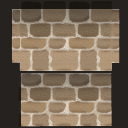
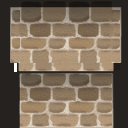
Inserted new AO textures into the game.

Changed region(s): [[0.0625, 0.0312, 0.9688, 1.0]]

diff --git a/Kandidat33MobileGame/src/spatial/hazard/AbstractWizard.java b/Kandidat33MobileGame/src/spatial/hazard/AbstractWizard.java
@@ -38,18 +38,17 @@ public abstract class AbstractWizard extends PlayerInteractor {
     @Override
     protected Spatial createModel(AssetManager assetManager) {
         
-        Node model;
-        if (EffectSettings.ambientOcclusion == AmbientOcclusion.TEXTURE) {
-            model = (Node) assetManager.loadModel("Models/wizard/AO/wizard-with-ao.j3o");
-        } else {
-            //modelForWizard = (Node) assetManager.loadModel("Models/wizard/Wizard-NoAnim-YellowbordersHair003-nolightcam.j3o"); // Nina's
-            //modelForWizard = (Node) assetManager.loadModel("Models/wizard/Wizard-NoAnim-YellowbordersHair004MergeGreen.j3o");
-            //modelForWizard = (Node) assetManager.loadModel("Models/wizard/wizard3/untitled21.j3o");
-            model = (Node) assetManager.loadModel("Models/wizard/wizard3/new/untitled21b-textures.j3o");
-        }
+        Node model = (Node) assetManager.loadModel("Models/wizard/wizard3/new/untitled21b-textures.j3o");
+        //modelForWizard = (Node) assetManager.loadModel("Models/wizard/Wizard-NoAnim-YellowbordersHair003-nolightcam.j3o"); // Nina's
+        //modelForWizard = (Node) assetManager.loadModel("Models/wizard/Wizard-NoAnim-YellowbordersHair004MergeGreen.j3o");
+        //modelForWizard = (Node) assetManager.loadModel("Models/wizard/wizard3/untitled21.j3o");
+        
         model.scale(1.5f);
         model.rotate(0, FastMath.DEG_TO_RAD * 180, 0);
-
+        
+        if (EffectSettings.ambientOcclusion == AmbientOcclusion.TEXTURE) {
+            this.addAOTextures(model, assetManager);
+        }
 
         //model.rotate(0,3.1f,0);
         model.setName("wizardSpatial");
@@ -66,8 +65,9 @@ public abstract class AbstractWizard extends PlayerInteractor {
         Geometry wall = new Geometry("wallOcclusion", wallAO);
         wall.setLocalTranslation(localTranslation);
         Material wallMaterial = new Material(assetManager, "Common/MatDefs/Misc/Unshaded.j3md");
-        wallMaterial.setTexture("ColorMap", assetManager.loadTexture("Models/wizard/AO/wall-ao-transparent-small.png"));
+        wallMaterial.setTexture("ColorMap", assetManager.loadTexture("Models/ghost/AO/wall-ao-small.png"));
         wallMaterial.getAdditionalRenderState().setBlendMode(RenderState.BlendMode.Alpha); // activate transparency
+        wallMaterial.getAdditionalRenderState().setDepthWrite(false);
         wall.setMaterial(wallMaterial);
         return wall;
     }
@@ -93,16 +93,25 @@ public abstract class AbstractWizard extends PlayerInteractor {
     
     protected void redress(AssetManager a, ColorRGBA cloth, ColorRGBA particle) { //Changes wizard to black clothes and red particle
         if (cloth != null) {
-        Material mat = new Material(a, "Common/MatDefs/Light/Lighting.j3md");
-        mat.setBoolean("UseMaterialColors",true);
-        //saknas något här för att materialet ska reflektera ljus på bra sätt. det blir"torrt"
-        mat.setColor("Diffuse", cloth);
-        this.getChild("Cone.0002").setMaterial(mat);
-        this.getChild("Cone.0012").setMaterial(mat);
-        this.getChild("Cone.0021").setMaterial(mat);
+            //saknas något här för att materialet ska reflektera ljus på bra sätt. det blir"torrt"
+            ((Geometry)this.getChild("Cone.0002")).getMaterial().setColor("Diffuse", cloth);
+            ((Geometry)this.getChild("Cone.0012")).getMaterial().setColor("Diffuse", cloth);
+            ((Geometry)this.getChild("Cone.0021")).getMaterial().setColor("Diffuse", cloth);
         }
         if (particle != null) {
-        ((ParticleEmitter)this.getChild("spark")).setStartColor(particle);
+            ((ParticleEmitter)this.getChild("spark")).setStartColor(particle);
         }
+    }
+
+    private void addAOTextures(Node model, AssetManager assetManager) {
+        ((Geometry)((Node)model.getChild("Cone.000")).getChild("Cone.0001")).getMaterial().setTexture("AOMap", assetManager.loadTexture("Models/wizard/wizard3/new/AO/hat-ao-small.png"));
+        ((Geometry)((Node)model.getChild("Cone.000")).getChild("Cone.0002")).getMaterial().setTexture("AOMap", assetManager.loadTexture("Models/wizard/wizard3/new/AO/hat-ao-small.png"));
+        ((Geometry)((Node)model.getChild("Cone.001")).getChild("Cone.0011")).getMaterial().setTexture("AOMap", assetManager.loadTexture("Models/wizard/wizard3/new/AO/dress-ao-small.png"));
+        ((Geometry)((Node)model.getChild("Cone.001")).getChild("Cone.0012")).getMaterial().setTexture("AOMap", assetManager.loadTexture("Models/wizard/wizard3/new/AO/dress-ao-small.png"));
+        ((Geometry)((Node)model.getChild("Cone.002")).getChild("Cone.0021")).getMaterial().setTexture("AOMap", assetManager.loadTexture("Models/wizard/wizard3/new/AO/arm-ao-small.png"));
+        ((Geometry)((Node)model.getChild("Cone.001")).getChild("Cone.0012")).getMaterial().setTexture("AOMap", assetManager.loadTexture("Models/wizard/wizard3/new/AO/dress-ao-small.png"));
+        ((Geometry)((Node)model.getChild("Cylinder.001")).getChild("Cylinder.0011")).getMaterial().setTexture("DiffuseMap", assetManager.loadTexture("Models/wizard/wizard3/new/AO/hair-ao-small.png"));
+        ((Geometry)((Node)model.getChild("Plane.004")).getChild("Plane.0061")).getMaterial().setTexture("DiffuseMap", assetManager.loadTexture("Models/wizard/wizard3/new/AO/beard-ao-small.png"));
+        ((Geometry)((Node)model.getChild("Sphere")).getChild("Sphere1")).getMaterial().setTexture("DiffuseMap", assetManager.loadTexture("Models/wizard/wizard3/new/AO/head-ao-small.png"));
     }
 }

diff --git a/Kandidat33MobileGame/src/spatial/Player.java b/Kandidat33MobileGame/src/spatial/Player.java
@@ -75,9 +75,19 @@ public class Player extends Node implements AnimEventListener {
         playerControl = new PlayerControl(1f, 4f+hoverHeight);
         playerControl.setSpeedFactor(P.speedFactor);
         this.addControl(playerControl);
+        
+        playerModel = (Node) assetManager.loadModel("Models/ghost/ghost04-014cloth003armature003UV002.j3o");
+        playerModel.rotate(0, -2.07f, 0);
+        playerModel.scale(1f);
+        playerModel.setLocalTranslation(0f,2.8f+hoverHeight,0f); 
+        control = playerModel.getChild("Sphere").getControl(AnimControl.class);
+        channel = control.createChannel();
+        channel.setAnim("ArmatureAction.000");
 
+        /*
         //Sets the model of the player
         if (EffectSettings.ambientOcclusion == AmbientOcclusion.TEXTURE) {
+            
             playerModel = (Node) assetManager.loadModel("Models/ghost/AO/ghost-with-ao.j3o");
             playerModel.setLocalTranslation(0f,1.8f+hoverHeight,0f); 
             control = playerModel.getChild("Plane").getControl(AnimControl.class);
@@ -89,17 +99,14 @@ public class Player extends Node implements AnimEventListener {
             this.attachChild(floorOcclusion);
         } else {
             
-            playerModel = (Node) assetManager.loadModel("Models/ghost/ghost04-014cloth003armature003UV002.j3o");
-            playerModel.rotate(0, -2.07f, 0);
-            playerModel.scale(1f);
-            playerModel.setLocalTranslation(0f,2.8f+hoverHeight,0f); 
-            control = playerModel.getChild("Sphere").getControl(AnimControl.class);
-            channel = control.createChannel();
-            channel.setAnim("ArmatureAction.000");
-            // Nina's
-            /*playerModel = (Node) assetManager.loadModel("Models/ghost/ghost2-moreanim-nolightcam.j3o");
-            playerModel.setLocalTranslation(0f,1.8f+hoverHeight,0f); 
-            control = playerModel.getChild("Plane").getControl(AnimControl.class);*/
+            
+        }
+        * */
+        
+        if (EffectSettings.ambientOcclusion == AmbientOcclusion.TEXTURE) {
+            ((Geometry)((Node)playerModel.getChild("Sphere")).getChild("Sphere1")).getMaterial().setTexture("DiffuseMap", assetManager.loadTexture("Models/ghost/AO/ghost-ao-small.png"));
+            this.attachChild(this.addWallOcclusion(assetManager, hoverHeight));
+            this.attachChild(this.addFloorOcclusion(assetManager, hoverHeight));
         }
         
         ParticleEmitter dust = this.getDustParticleEmitter(assetManager);
@@ -186,24 +193,26 @@ public class Player extends Node implements AnimEventListener {
 
 
     private Geometry addWallOcclusion(AssetManager assetManager, float hoverHeight) {
-        Quad wallAO = new Quad(13, 13);
+        Quad wallAO = new Quad(8*9/9, 8*12/9);
         Geometry wall = new Geometry("wallOcclusion", wallAO);
         wall.setLocalTranslation(-wallAO.getWidth()/2, -wallAO.getHeight()/2+hoverHeight, -P.platformWidth/2-P.playerZOffset+0.2f);
         Material wallMaterial = new Material(assetManager, "Common/MatDefs/Misc/Unshaded.j3md");
-        wallMaterial.setTexture("ColorMap", assetManager.loadTexture("Models/ghost/AO/wall-ao-transparent.png"));
+        wallMaterial.setTexture("ColorMap", assetManager.loadTexture("Models/ghost/AO/wall-ao-small.png"));
         wallMaterial.getAdditionalRenderState().setBlendMode(BlendMode.Alpha); // activate transparency
+        wallMaterial.getAdditionalRenderState().setDepthWrite(false);
         wall.setMaterial(wallMaterial);
         wall.setQueueBucket(Bucket.Transparent);
         return wall;
     }
     
     private Geometry addFloorOcclusion(AssetManager assetManager, float hoverHeight) {
-        Box floorAO = new Box(6.5f, 0f, 6.5f);
+        Box floorAO = new Box(4.2f/3, 0f, 6.5f/3);
         Geometry floor = new Geometry("floorOcclusion", floorAO);
-        floor.setLocalTranslation(0f, 0.25f, 0f);
+        floor.setLocalTranslation(0f, 0.35f, 0f);
         Material floorMaterial = new Material(assetManager, "Common/MatDefs/Misc/Unshaded.j3md");
-        floorMaterial.setTexture("ColorMap", assetManager.loadTexture("Models/ghost/AO/floor-ao-transparent.png"));
+        floorMaterial.setTexture("ColorMap", assetManager.loadTexture("Models/ghost/AO/floor-ao-small.png"));
         floorMaterial.getAdditionalRenderState().setBlendMode(BlendMode.Alpha); // activate transparency
+        floorMaterial.getAdditionalRenderState().setDepthWrite(false);
         floor.setMaterial(floorMaterial);
         floor.setQueueBucket(Bucket.Transparent);
         return floor;

diff --git a/Kandidat33MobileGame/src/spatial/Plant.java b/Kandidat33MobileGame/src/spatial/Plant.java
@@ -7,13 +7,20 @@ import com.jme3.animation.LoopMode;
 import com.jme3.asset.AssetManager;
 import com.jme3.bullet.collision.shapes.CollisionShape;
 import com.jme3.bullet.collision.shapes.CylinderCollisionShape;
+import com.jme3.material.Material;
+import com.jme3.material.RenderState;
 import com.jme3.math.Vector3f;
+import com.jme3.renderer.queue.RenderQueue;
+import com.jme3.scene.Geometry;
 import com.jme3.scene.Node;
 import com.jme3.scene.Spatial;
+import com.jme3.scene.shape.Box;
 import com.sun.org.apache.bcel.internal.generic.L2D;
 import control.AbstractPlayerInteractorControl;
 import control.PlayerControl;
 import control.PlayerInteractorControl;
+import material.LightTextureMaterial;
+import variables.EffectSettings;
 
 /**
  * A class for a non-physical torch, purely for decoration.
@@ -26,16 +33,19 @@ public class Plant extends PlayerInteractor implements AnimEventListener {
     private static final CollisionShape collisionShape =
             new CylinderCollisionShape(new Vector3f(1,10,1),1);
     private static final float modelHeight = 10;
+
     
     public enum Type {
-        LEAVES ("Models/plant/plant-new.j3o", 6f),
-        FLOWERS ("Models/plant/plant-new-2.j3o", 3.5f);
+        LEAVES ("Models/plant/plant-new.j3o", "Models/plant/AO/planta-ao-small.png", 6f),
+        FLOWERS ("Models/plant/plant-new-2.j3o", "Models/plant/AO/planta2-ao-small.png", 3.5f);
 
         public final String modelSrc;
+        public final String AOsrc;
         public final float scale;
 
-        Type(String modelSrc, float scale) {
+        Type(String modelSrc, String AOsrc, float scale) {
             this.modelSrc = modelSrc;
+            this.AOsrc = AOsrc;
             this.scale = scale;
         }
     }
@@ -53,10 +63,16 @@ public class Plant extends PlayerInteractor implements AnimEventListener {
         model.setName("model");
         
         control = model.getChild("Plane").getControl(AnimControl.class);
+        ((Geometry)((Node)model.getChild("Plane")).getChild("Plane1")).getMaterial().getAdditionalRenderState().setDepthWrite(false);
         channel = control.createChannel(); 
         control.addListener(this);
         
         channel.setLoopMode(LoopMode.DontLoop);
+        
+        if(EffectSettings.ambientOcclusion == EffectSettings.AmbientOcclusion.TEXTURE || EffectSettings.ambientOcclusion == EffectSettings.AmbientOcclusion.INTERVAL_POST_PROCESSING) {
+            this.addAOTexture(model, assetManager, type);
+            this.attachChild(this.addWallOcclusion(assetManager, type));
+        }
         
         this.attachChild(model);
         model.move(0,modelHeight/2,-2.5f);
@@ -109,6 +125,32 @@ public class Plant extends PlayerInteractor implements AnimEventListener {
 
     public void onAnimChange(AnimControl control, AnimChannel channel, String animName) {
        // throw new UnsupportedOperationException("Not supported yet.");
+    }
+    
+    private void addAOTexture(Node model, AssetManager assetManager, Type type) {
+        ((Geometry)((Node)model.getChild("Sphere")).getChild("Sphere2")).getMaterial().setTexture("AOMap", assetManager.loadTexture(type.AOsrc));
+    }
+
+    private Geometry addWallOcclusion(AssetManager assetManager, Type type) {
+        Box wallAO = null;
+        if (type == Type.LEAVES) {
+            wallAO = new Box(3.6f, 3.6f, 0f);
+        } else {
+            wallAO = new Box(3.2f, 3.2f, 0f);
+        }
+        Geometry wall = new Geometry("wallOcclusion", wallAO);
+        if (type == Type.LEAVES) {
+            wall.setLocalTranslation(-0.3f, 17, -6.9f);
+        } else {
+            wall.setLocalTranslation(0f, 12, -6.9f);
+        }
+        Material wallMaterial = new Material(assetManager, "Common/MatDefs/Misc/Unshaded.j3md");
+        wallMaterial.setTexture("ColorMap", assetManager.loadTexture("Models/plant/AO/wall-ao-small.png"));
+        wallMaterial.getAdditionalRenderState().setBlendMode(RenderState.BlendMode.Alpha); // activate transparency
+        wallMaterial.getAdditionalRenderState().setDepthWrite(false);
+        wall.setMaterial(wallMaterial);
+        wall.setQueueBucket(RenderQueue.Bucket.Transparent);
+        return wall;
     }
     
    

diff --git a/Kandidat33MobileGame/src/spatial/Platform.java b/Kandidat33MobileGame/src/spatial/Platform.java
@@ -8,6 +8,7 @@ import com.jme3.material.RenderState;
 import com.jme3.math.FastMath;
 import com.jme3.math.Vector2f;
 import com.jme3.math.Vector3f;
+import com.jme3.renderer.queue.RenderQueue;
 import com.jme3.renderer.queue.RenderQueue.ShadowMode;
 import com.jme3.scene.Geometry;
 import com.jme3.scene.Node;
@@ -57,6 +58,10 @@ public class Platform extends Node {
         
         float length = type.length;
         Node platform = (Node)assetManager.loadModel("Models/platform/untitled8-new.j3o");
+        platform.rotate(180*FastMath.DEG_TO_RAD, 0, 0);
+        if (EffectSettings.ambientOcclusion == AmbientOcclusion.TEXTURE || EffectSettings.ambientOcclusion == AmbientOcclusion.INTERVAL_POST_PROCESSING) {
+            ((Geometry)((Node)platform.getChild("Cube")).getChild("Cube1")).getMaterial().setTexture("DiffuseMap", assetManager.loadTexture("Models/platform/AO/plaform-ao-small.png"));
+        }
         switch(type) {
             case SHORT:
                 this.attachChild(platform);
@@ -81,10 +86,9 @@ public class Platform extends Node {
         this.addControl(rigidBodyControl);
         
         if (EffectSettings.ambientOcclusion == AmbientOcclusion.TEXTURE || EffectSettings.ambientOcclusion == AmbientOcclusion.INTERVAL_POST_PROCESSING) {
-            Geometry wallOccl = this.addWallOcclusion(assetManager, length);
-            Node platformOccl = this.addPlatformOcclusion(assetManager, length);
-            this.attachChild(wallOccl);
-            this.attachChild(platformOccl);
+            this.attachChild(addWallOcclusion(assetManager, length));
+            //Node platformOccl = this.addPlatformOcclusion(assetManager, length);
+            //this.attachChild(platformOccl);
             //wallOccl.rotate(0, 90*FastMath.DEG_TO_RAD, 0);
             //platformOccl.rotate(0, 90*FastMath.DEG_TO_RAD, 0);
         }
@@ -93,15 +97,15 @@ public class Platform extends Node {
     }
 
     private Geometry addWallOcclusion(AssetManager assetManager, float length) {
-        Box wallAO = new Box((length*1.52f)/2,7f, 0f);
+        Box wallAO = new Box(length*0.9f+0.9f, 12f, 0f);
         Geometry wall = new Geometry("wallOcclusion", wallAO);
-        wall.setLocalTranslation(0f, 0f,-(P.platformWidth/2-(float)(Math.random()*0.1f)-0.05f));
-        wall.rotate(0f, 0f, 0f);
+        wall.setLocalTranslation(0f, 0.55f,-(P.platformWidth/2-0.05f));
         Material wallMaterial = new Material(assetManager, "Common/MatDefs/Misc/Unshaded.j3md");
-        wallMaterial.setTexture("ColorMap", assetManager.loadTexture("Models/platform/AO/wall-ao-transparant-small.png"));
+        wallMaterial.setTexture("ColorMap", assetManager.loadTexture("Models/platform/AO/wall-ao-small.png"));
         wallMaterial.getAdditionalRenderState().setBlendMode(RenderState.BlendMode.Alpha); // activate transparency
+        wallMaterial.getAdditionalRenderState().setDepthWrite(false);
         wall.setMaterial(wallMaterial);
-        //wall.setQueueBucket(RenderQueue.Bucket.Transparent);
+        wall.setQueueBucket(RenderQueue.Bucket.Transparent);
         return wall;
     }
     

diff --git a/Kandidat33MobileGame/src/spatial/hazard/AbstractBat.java b/Kandidat33MobileGame/src/spatial/hazard/AbstractBat.java
@@ -7,6 +7,7 @@ import com.jme3.animation.LoopMode;
 import com.jme3.asset.AssetManager;
 import com.jme3.material.Material;
 import com.jme3.math.ColorRGBA;
+import com.jme3.scene.Geometry;
 import com.jme3.scene.Node;
 import com.jme3.scene.Spatial;
 import java.util.Random;
@@ -29,17 +30,13 @@ public abstract class AbstractBat extends PlayerInteractor implements AnimEventL
     @Override
     protected Spatial createModel(AssetManager assetManager) {
 
-        Node model;
+        Node model = (Node) assetManager.loadModel("Models/bat/bat2-anim3-smooth.j3o");
+        ((Geometry)((Node)model.getChild("Sphere")).getChild("Sphere1")).getMaterial().setColor("Diffuse", ColorRGBA.Orange);
+        
         if (EffectSettings.ambientOcclusion == AmbientOcclusion.TEXTURE) {
-            model = (Node) assetManager.loadModel("Models/bat/AO/bat-with-ao.j3o");
-        } else {
-            model = (Node) assetManager.loadModel("Models/bat/bat2-anim3-smooth.j3o");
+            ((Geometry)((Node)model.getChild("Sphere")).getChild("Sphere1")).getMaterial().setTexture("AOMap", assetManager.loadTexture("Models/bat/AO/ao-small.png"));
         }
-        Material mat = new Material(assetManager, "Common/MatDefs/Light/Lighting.j3md");
-        mat.setBoolean("UseMaterialColors", true);
-        mat.setColor("Diffuse", ColorRGBA.Orange);
 
-        model.setMaterial(mat);
         model.rotate(+1.6f, +1.4f, 0); //flying towards player, slightly tilted up
         
         control = model.getChild("Sphere").getControl(AnimControl.class);

diff --git a/Kandidat33MobileGame/src/control/AbstractWizardControl.java b/Kandidat33MobileGame/src/control/AbstractWizardControl.java
@@ -9,6 +9,7 @@ import com.jme3.math.FastMath;
 import com.jme3.math.Quaternion;
 import com.jme3.math.Vector3f;
 import com.jme3.scene.Node;
+import com.jme3.scene.Spatial;
 import control.AbstractPlayerInteractorControl;
 import leveldata.LevelContentGenerator;
 import spatial.Player;
@@ -105,11 +106,13 @@ public abstract class AbstractWizardControl extends AbstractPlayerInteractorCont
     }
 
     public void lookAt(Vector3f position) {
+        Spatial wizard = ((Node)spatial).getChild("wizardSpatial");
         Vector3f direction = position.subtract(spatial.getLocalTranslation());
-        float theta = FastMath.atan2(direction.x,direction.z + 3f)/2 + FastMath.PI + 0.3f;
+        float theta = FastMath.atan2(direction.x,direction.z + 3f)/2 + 0.3f;//+FastMath.DEG_TO_RAD*180;
         float[] angles = {0f, theta, 0.0f};
         Quaternion rotation = new Quaternion(angles);
-        this.spatial.setLocalRotation(rotation);
+        wizard.setLocalRotation(rotation);
+        //spatial.rotate(0, FastMath.DEG_TO_RAD * 180, 0);
         this.spotlight.setDirection(direction.subtractLocal(wizardLightOffset));
     }
 

diff --git a/Kandidat33MobileGame/src/spatial/Torch.java b/Kandidat33MobileGame/src/spatial/Torch.java
@@ -143,8 +143,9 @@ public class Torch extends Node {
         Material wallMaterial = new Material(assetManager, "Common/MatDefs/Misc/Unshaded.j3md");
         wallMaterial.setTexture("ColorMap", assetManager.loadTexture("Models/torch/AO/wall-ao-small.png"));
         wallMaterial.getAdditionalRenderState().setBlendMode(RenderState.BlendMode.Alpha); // activate transparency
+        wallMaterial.getAdditionalRenderState().setDepthWrite(false);
         wall.setMaterial(wallMaterial);
-        //wall.setQueueBucket(RenderQueue.Bucket.Transparent);
+        wall.setQueueBucket(RenderQueue.Bucket.Transparent);
         return wall;
     }
     

diff --git a/Kandidat33MobileGame/src/spatial/hazard/BurstWizard.java b/Kandidat33MobileGame/src/spatial/hazard/BurstWizard.java
@@ -30,8 +30,9 @@ public class BurstWizard extends AbstractWizard {
        this.redress(assetManager, ColorRGBA.Black, ColorRGBA.Red);
        
         if(EffectSettings.ambientOcclusion == EffectSettings.AmbientOcclusion.TEXTURE) {
-            this.attachChild(this.addWallOcclusion(assetManager, new Vector3f(0f, -1f, -4f)));
+            this.attachChild(this.addWallOcclusion(assetManager, new Vector3f(2f, -1f, -4f)));
         }
+        
         this.scale(0.8f);
         
     }

diff --git a/Kandidat33MobileGame/src/spatial/hazard/SingleShotWizard.java b/Kandidat33MobileGame/src/spatial/hazard/SingleShotWizard.java
@@ -25,7 +25,7 @@ public class SingleShotWizard extends AbstractWizard {
         this.attachChild(createModel(assetManager));
         this.addControl(createControl());
         if(EffectSettings.ambientOcclusion == AmbientOcclusion.TEXTURE) {
-            this.attachChild(this.addWallOcclusion(assetManager, new Vector3f(0f, -1f, -4f)));
+            this.attachChild(this.addWallOcclusion(assetManager, new Vector3f(2f, -1f, -4f)));
         }
         this.scale(1.2f);
     }

diff --git a/Kandidat33MobileGame/src/variables/EffectSettings.java b/Kandidat33MobileGame/src/variables/EffectSettings.java
@@ -5,7 +5,7 @@ package variables;
  * @author nina
  */
 public class EffectSettings {
-    public static final AmbientOcclusion ambientOcclusion = AmbientOcclusion.NONE;
+    public static final AmbientOcclusion ambientOcclusion = AmbientOcclusion.TEXTURE;
     public static final Score score = Score.OFF;
     public static final Light light = Light.TEXTURES_AND_WINDOW;
             
